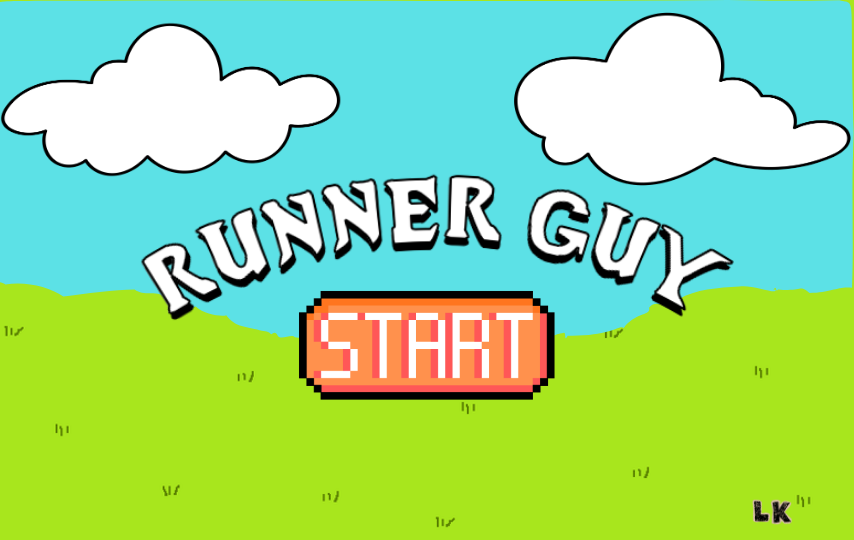
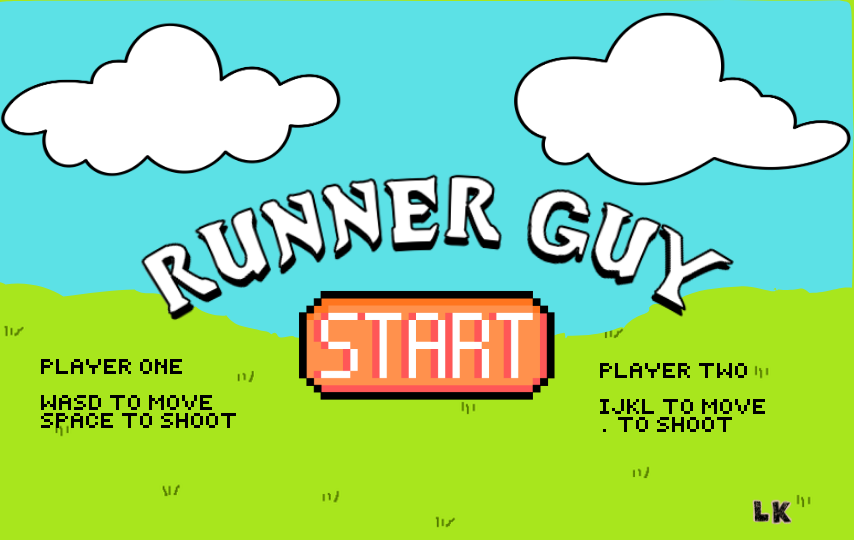
cleaned up files, need to work on abstraction of javax

Changed region(s): [[0.0304, 0.6519, 0.274, 0.8], [0.7002, 0.6519, 0.8829, 0.7111], [0.7002, 0.7407, 0.9133, 0.8]]

diff --git a/src/main/java/com/liamreal/Model.java b/src/main/java/com/liamreal/Model.java
@@ -10,6 +10,7 @@ import com.liamreal.logic.enemy.EnemyLogicManager;
 import com.liamreal.logic.item.ItemLogicManager;
 import com.liamreal.logic.object.ObjectLogic;
 import com.liamreal.logic.player.PlayerLogicManager;
+import com.liamreal.user.Config;
 import com.liamreal.util.Score;
 /*
  * Created by Abraham Campbell on 15/01/2020.
@@ -44,7 +45,7 @@ public class Model {
 
 	public Model() {
 		//setup game world, specify number of players (can do through config)
-		players = new PlayerLogicManager(2);
+		players = new PlayerLogicManager(Config.getInstance().getNumPlayers());
 		enemies = new EnemyLogicManager();
 		bullets = new BulletLogicManager();
 		items = new ItemLogicManager();
@@ -67,11 +68,11 @@ public class Model {
 
 
 		// if above highest threshold, switch to advanced enemies only
-		if (score.getScore()%20 > 15) {
+		if (score.getScore()%20 > 8) {
 			enemies.setEnemyDifficulty(EnemyType.ADVANCED);
 		} 
 		// if above low threshold, randomise enemy type
-		else if (score.getScore()%20 > 5) {
+		else if (score.getScore()%20 > 3) {
 			List<EnemyType> enemyTypes = EnemyType.getAllEnemyTypes();
         	int randomEnemyType = ThreadLocalRandom.current().nextInt(0, enemyTypes.size());
 			enemies.setEnemyDifficulty(enemyTypes.get(randomEnemyType));
@@ -109,7 +110,7 @@ public class Model {
 		// move all items
 		items.moveItems();
 		// only spawn portal once threshold reached (should be changed to time later)
-		if (score.getScore() > 0 && score.getScore() > 20) {
+		if (score.getScore() > 0 && score.getScore() > 8) {
 			// 1/4 chance of portal to next level every 10 score
         	int portalChance = ThreadLocalRandom.current().nextInt(0, 4);
 			if (portalChance == 0) { items.spawnPortalItemAttempt(); } // attempt to spawn portal item (to go to next level)

diff --git a/src/main/java/com/liamreal/objects/GameObject.java b/src/main/java/com/liamreal/objects/GameObject.java
@@ -152,10 +152,11 @@ public abstract class GameObject {
 		if (otherObjects == null || otherObjects.isEmpty()) { return null; }
 		// will be our list we sort
 		List<GameObject> sortedList = new ArrayList<>(otherObjects);
-		// used ChatGPT to help with lambda function sorting since is quite tricky, uses my squared distance calculation method as a comparison for sorting
+		// lambda function sorting is quite tricky, uses my squared distance calculation method as a comparison for sorting
 		sortedList.sort(
+			// for each object in sortedList, comparing this (current GameObject) to each "other object" based on squared distance between this and that other object
 			Comparator.comparingDouble(otherObject ->
-				Metrics.computeSquaredDistance(this, otherObject)
+				Metrics.computeSquaredDistance(this, otherObject) // using squared distance because we dont need the actual distance, just whether is closer or further away
 			)
 		);
 		// return sorted list as a CopyOnWriteArrayList
@@ -202,7 +203,7 @@ public abstract class GameObject {
 		// System.out.println(String.format("THIS = x:%f, y:%f, w:%f, h:%f", thisX, thisY, width, height));
 		// System.out.println(String.format("THAT = x:%f, y:%f, w:%f, h:%f", otherX, otherY, otherWidth, otherHeight));
 
-		// use AABB collision check -- return if true (suggested in slides, seen online and also suggested by ChatGPT)
+		// use AABB collision check -- return if true (suggested in slides, basically checks is other object to right? to left? below? above? if is below and right for example did not collide)
 		return 	thisX < otherX + otherWidth &&
 				thisX + width > otherX &&
 				thisY < otherY + otherHeight &&

diff --git a/src/main/java/com/liamreal/assets/SoundPlayer.java b/src/main/java/com/liamreal/assets/SoundPlayer.java
@@ -1,3 +1,4 @@
+// 22371791 Liam Kerrin
 package com.liamreal.assets;
 
 import javax.sound.sampled.*;
@@ -25,7 +26,7 @@ public class SoundPlayer {
                 // reduced volume for looping clips
                 FloatControl volume = (FloatControl) clip.getControl(FloatControl.Type.MASTER_GAIN);
                 volume.setValue(-10.0f);
-                // loop clip conitnuously
+                // loop clip continuously
                 clip.loop(Clip.LOOP_CONTINUOUSLY);
             } else {
                 // otherwise just start sound
@@ -34,7 +35,7 @@ public class SoundPlayer {
             audioStream.close();
             return clip;
 
-        } catch (UnsupportedAudioFileException | IOException | LineUnavailableException e) {
+        } catch (Exception e) { 
             e.printStackTrace();
         }
         return null;

diff --git a/src/main/java/com/liamreal/user/Config.java b/src/main/java/com/liamreal/user/Config.java
@@ -10,6 +10,7 @@ import com.liamreal.display.GameDisplay;
 // need to change to read these values from a file
 public class Config {
     private static Config INSTANCE;
+    private int numPlayers = 2;
     private int generalMoveSpeed = 1;
     private int bulletMoveSpeed = 3;
     private int playerMoveSpeed = 2;
@@ -42,6 +43,7 @@ public class Config {
     }
 
     // getters for various fields of class
+    public int getNumPlayers() { return this.numPlayers; }
     public int getBulletMoveSpeed() { return this.bulletMoveSpeed; }
     public int getGeneralMoveSpeed() { return this.generalMoveSpeed; }
     public int getPlayerMoveSpeed() { return this.playerMoveSpeed; }

diff --git a/src/main/java/com/liamreal/logic/enemy/EnemyLogicManager.java b/src/main/java/com/liamreal/logic/enemy/EnemyLogicManager.java
@@ -1,3 +1,4 @@
+// 22371791 Liam Kerrin
 package com.liamreal.logic.enemy;
 
 import java.util.concurrent.CopyOnWriteArrayList;
@@ -51,6 +52,8 @@ public class EnemyLogicManager extends ObjectLogicManager {
     public void setMaxNumEnemies(int newMaxNumEnemies) { 
         super.setMaxNumObjects(newMaxNumEnemies);
     }
+
+
 
 
 

diff --git a/src/main/java/com/liamreal/assets/AssetLoader.java b/src/main/java/com/liamreal/assets/AssetLoader.java
@@ -1,3 +1,5 @@
+
+// 22371791 Liam Kerrin
 package com.liamreal.assets;
 
 // will be responsible for obtaining the directory whose textures are used

diff --git a/src/main/java/com/liamreal/logic/object/ObjectLogic.java b/src/main/java/com/liamreal/logic/object/ObjectLogic.java
@@ -1,3 +1,4 @@
+// 22371791 Liam Kerrin
 package com.liamreal.logic.object;
 import com.liamreal.util.Vector3f;
 import com.liamreal.util.Point3f;

diff --git a/src/main/java/com/liamreal/logic/explosion/ExplosionLogicManager.java b/src/main/java/com/liamreal/logic/explosion/ExplosionLogicManager.java
@@ -1,3 +1,4 @@
+// 22371791 Liam Kerrin
 package com.liamreal.logic.explosion;
 
 import java.util.concurrent.CopyOnWriteArrayList;

diff --git a/src/main/java/com/liamreal/logic/bullet/BulletLogicManager.java b/src/main/java/com/liamreal/logic/bullet/BulletLogicManager.java
@@ -1,3 +1,4 @@
+// 22371791 Liam Kerrin
 package com.liamreal.logic.bullet;
 
 import java.util.concurrent.CopyOnWriteArrayList;

diff --git a/src/main/java/com/liamreal/logic/player/PlayerLogicManager.java b/src/main/java/com/liamreal/logic/player/PlayerLogicManager.java
@@ -1,3 +1,4 @@
+// 22371791 Liam Kerrin
 package com.liamreal.logic.player;
 
 import java.util.concurrent.CopyOnWriteArrayList;

diff --git a/src/main/java/com/liamreal/logic/explosion/ExplosionLogic.java b/src/main/java/com/liamreal/logic/explosion/ExplosionLogic.java
@@ -1,3 +1,4 @@
+// 22371791 Liam Kerrin
 package com.liamreal.logic.explosion;
 
 import com.liamreal.logic.object.ObjectLogic;

diff --git a/src/main/java/com/liamreal/logic/item/ItemLogicManager.java b/src/main/java/com/liamreal/logic/item/ItemLogicManager.java
@@ -1,3 +1,4 @@
+// 22371791 Liam Kerrin
 package com.liamreal.logic.item;
 
 import java.util.concurrent.CopyOnWriteArrayList;
